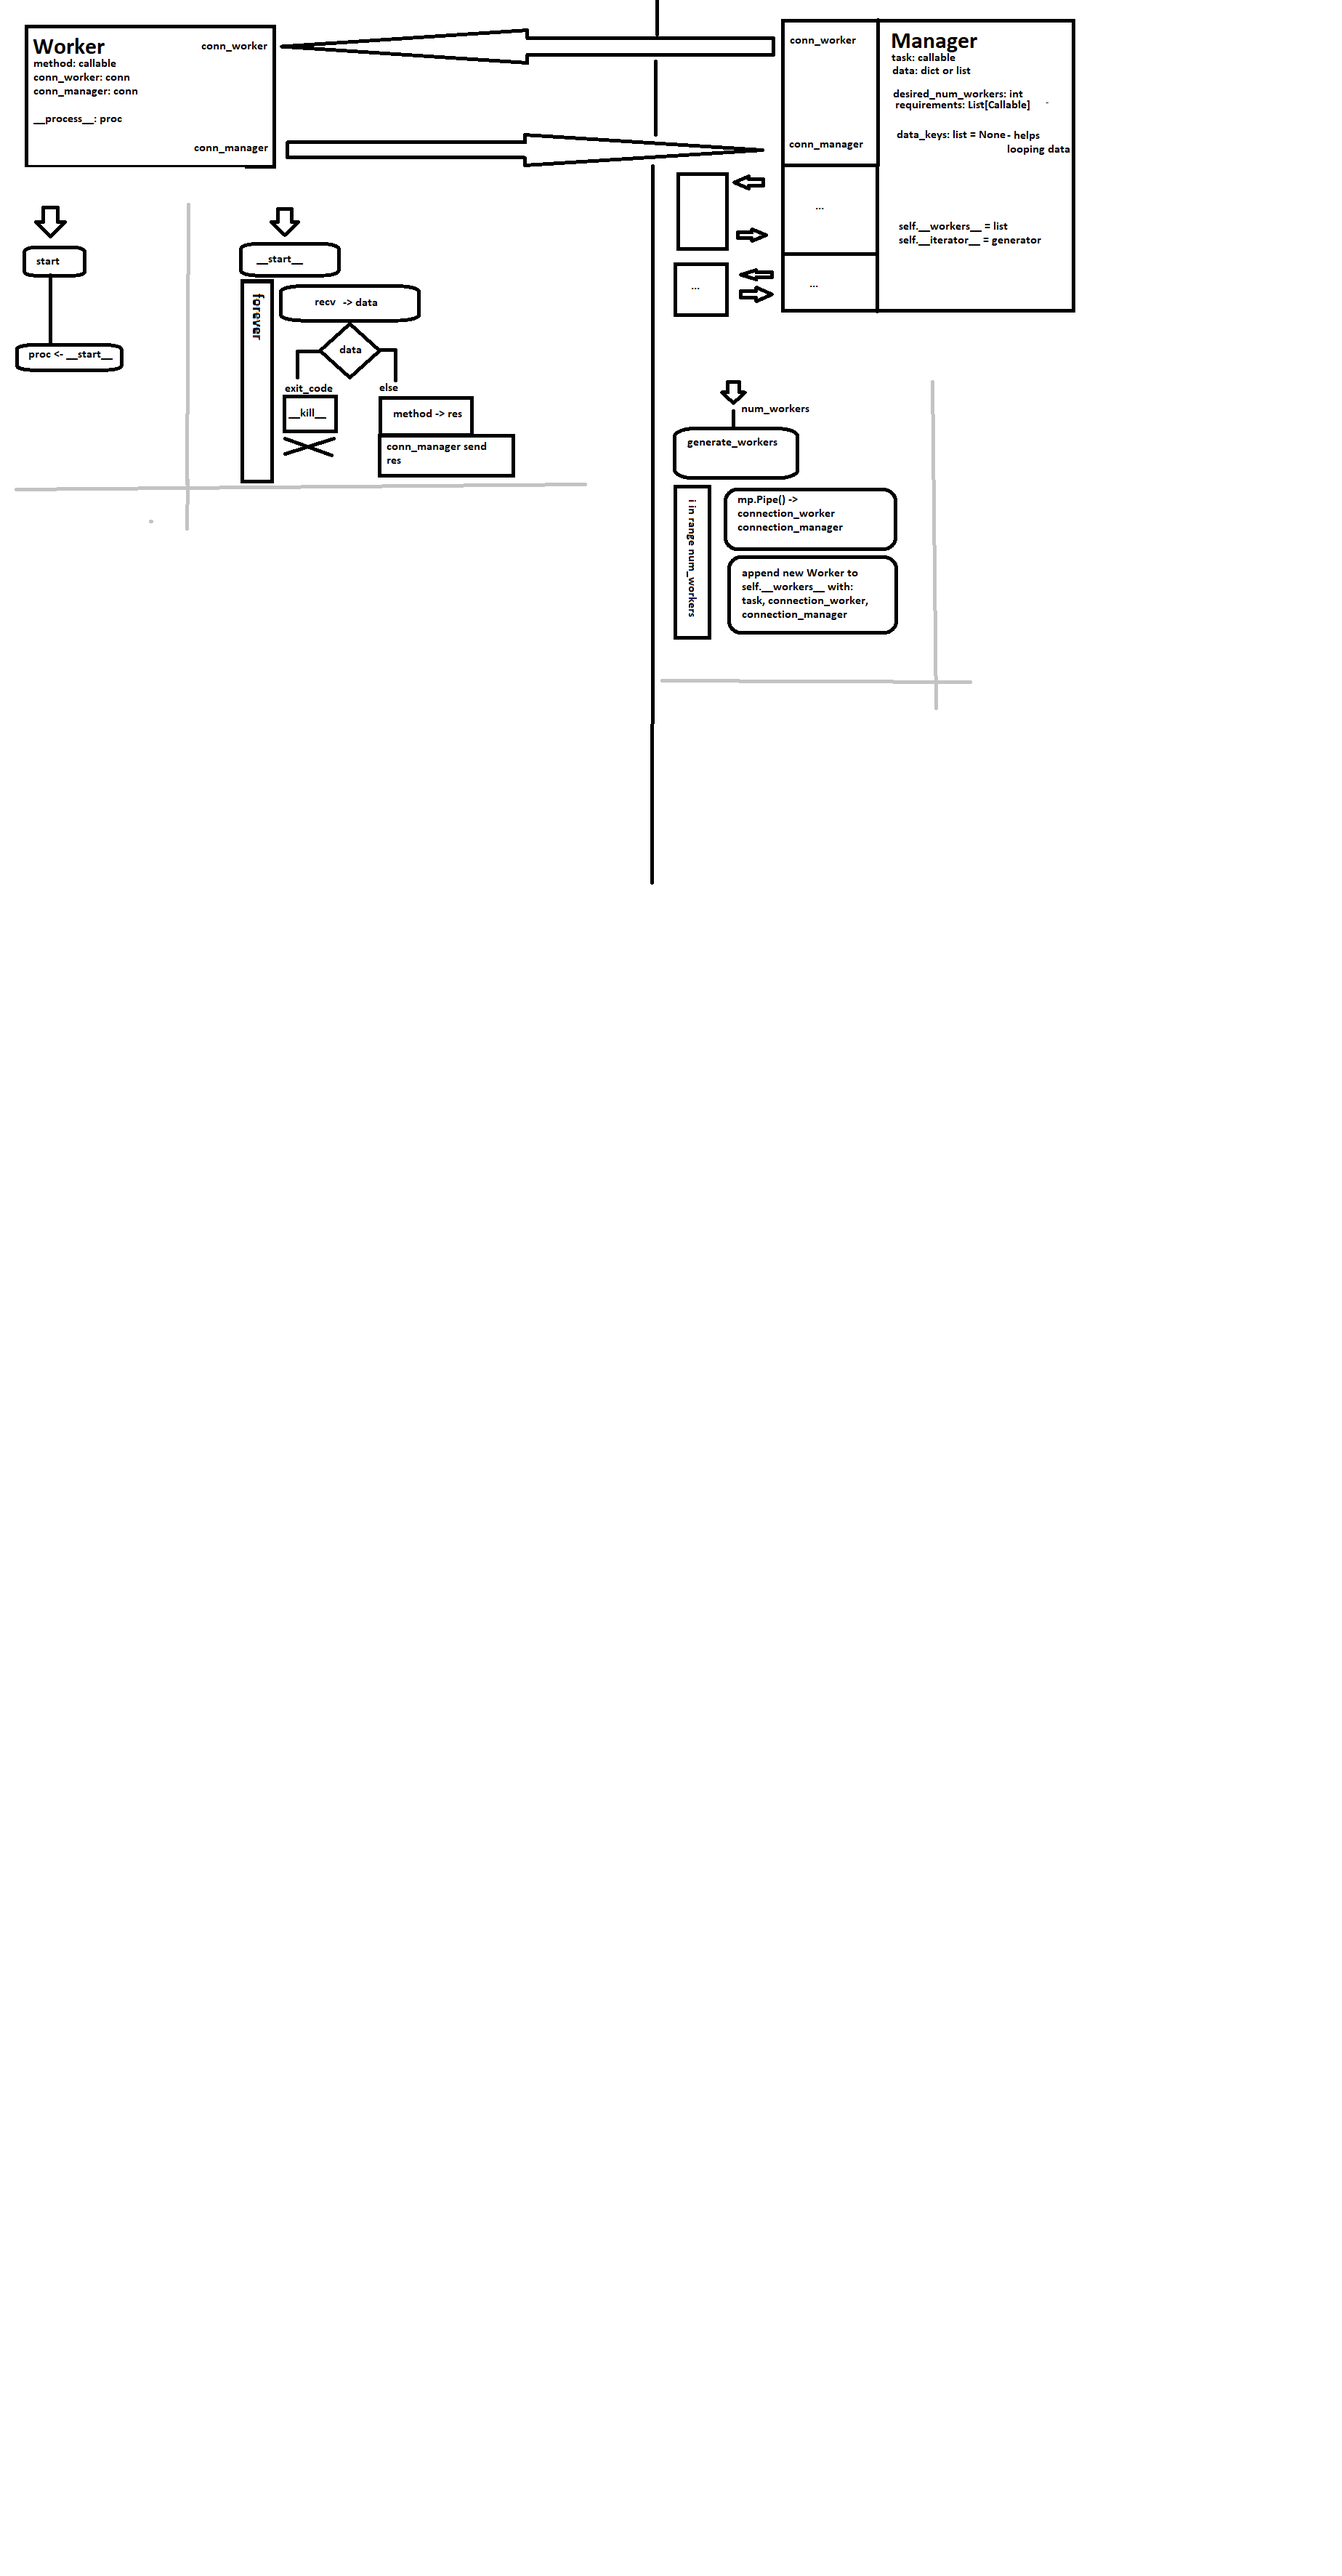
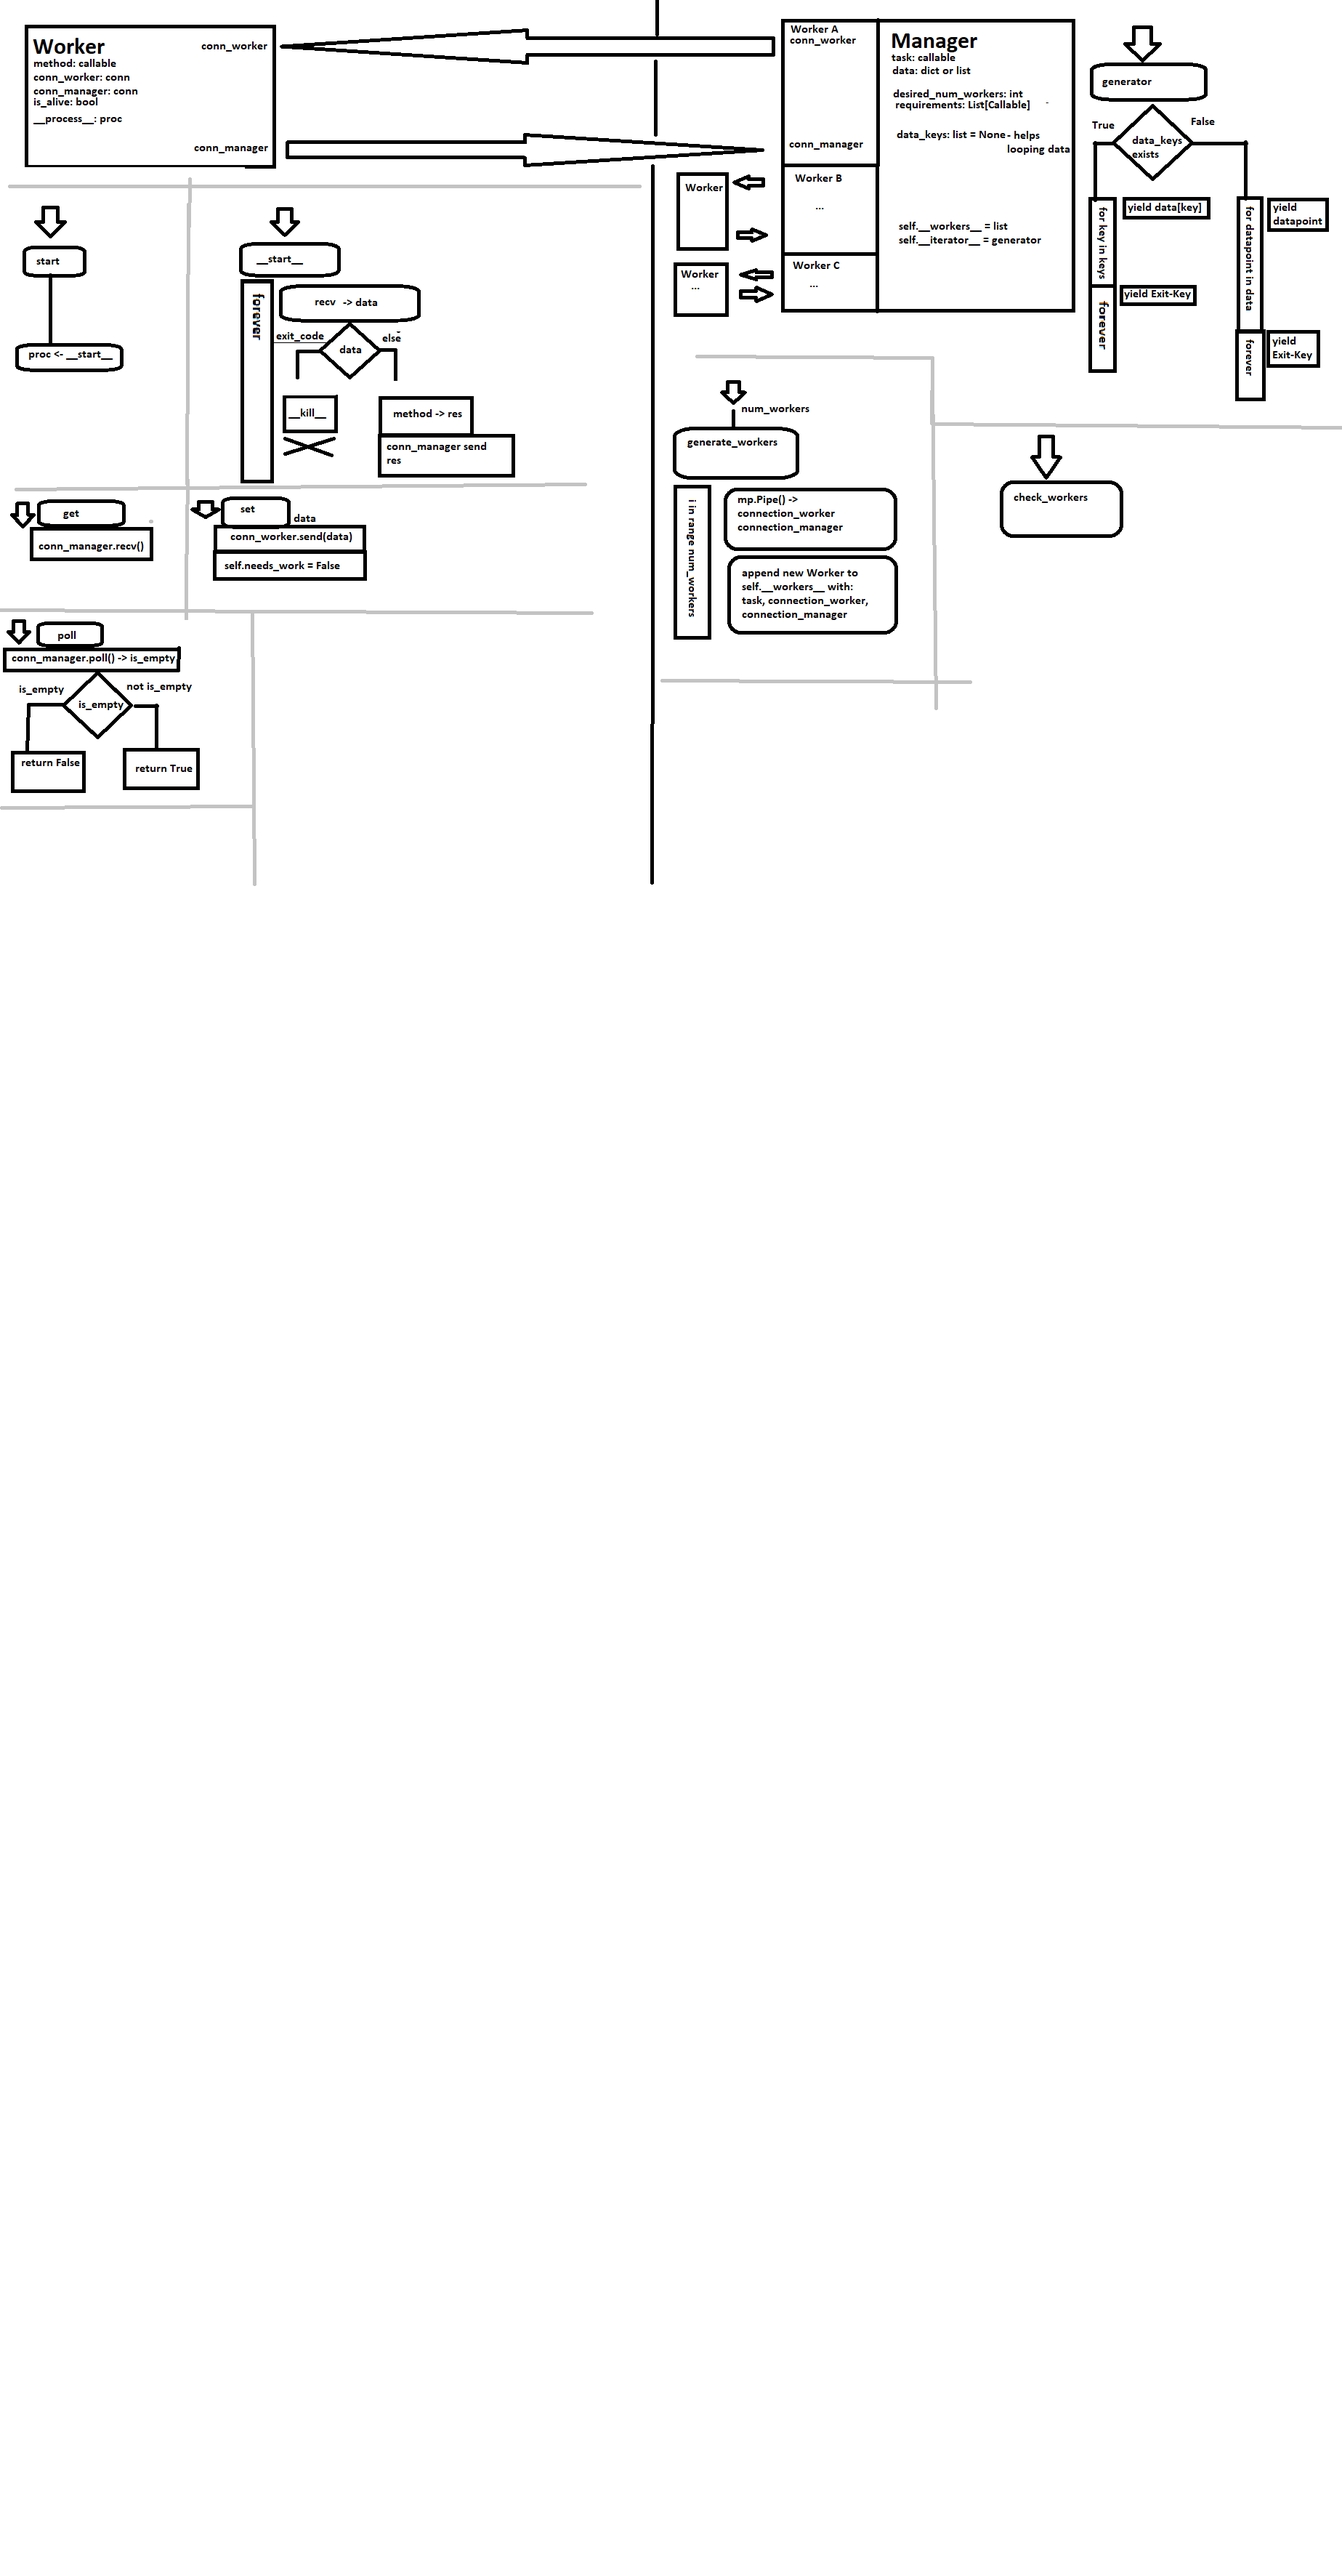
updates

diff --git a/src/Worker.py b/src/Worker.py
@@ -16,25 +16,26 @@ class WorkerInstance:
         self.method = method
         self.connection_worker = connection_worker
         self.connection_manager = connection_manager
-        self.id = worker_id
-
-        self.__process = mp.Process(target=self.worker_start, args=(self.method,
-                                                                    connection_worker))
         self.is_alive = False
         self.needs_work = True
+        self.id = worker_id
+
+        self.__process = mp.Process(target=self.__start__, args=(self.method,
+                                                                 connection_worker))
+
 
     @staticmethod
-    def worker_start(method, connection_worker) -> None:
+    def __start__(method: Callable, connection_worker: connection) -> None:
         while True:
             data = connection_worker.recv()
 
-            if data == Signals.__ExitSignal__:
+            if data == Signals.EXIT_SIGNAL:
                 connection_worker.close()
             result = method(data)
             connection_worker.send((data, result))
 
     def __kill(self) -> None:
-        self.connection_manager.send(Signals.__ExitSignal__)
+        self.connection_manager.send(Signals.EXIT_SIGNAL)
         self.__process.terminate()
 
     def start(self) -> None:
@@ -48,11 +49,11 @@ class WorkerInstance:
     def get(self) -> Tuple:
         return self.connection_manager.recv()
 
-    def set(self, data) -> None:
+    def set(self, data: object) -> None:
         self.connection_manager.send(data)
         self.needs_work = False
 
-    def poll(self, timeout) -> bool:
+    def poll(self, timeout: float) -> bool:
         if self.connection_manager.poll(timeout):
             self.needs_work = True
             return True

diff --git a/src/Manager.py b/src/Manager.py
@@ -28,21 +28,21 @@ class WorkerManager:
         self.results = {}
 
         self.__workers: List[WorkerInstance] = []  # typehint for IDE and reader
-        self.__iterator = self.data_iterator()
+        self.__iterator = self.generator()
         self.__poll_timeout = poll_timeout * (1 / 1000)
         self.__active_workers = 0
 
-    def data_iterator(self):
+    def generator(self):
         if self.data_keys:
             for key in self.data_keys:
                 yield self.data[key]
             while True:
-                yield Signals.__ExitSignal__
+                yield Signals.EXIT_SIGNAL
         else:
             for data_point in self.data:
                 yield data_point
             while True:
-                yield Signals.__ExitSignal__
+                yield Signals.EXIT_SIGNAL
 
     def generate_workers(self, num_processes: int) -> None:
         for worker in range(num_processes):
@@ -80,7 +80,7 @@ class WorkerManager:
             self.results[key] = result
             data = next(self.__iterator)
             worker.set(data)
-            if data == Signals.__ExitSignal__:
+            if data == Signals.EXIT_SIGNAL:
                 worker.kill()
 
         if worker.needs_work:

diff --git a/src/tools/Signals.py b/src/tools/Signals.py
@@ -1,5 +1,3 @@
-# yet another hashdict because of not being able to PRACTICALLY and SHORTLY disable random hashing
-
-__ExitSignal__ = hash("Exit")
-__HaltSignal__ = hash("Halt")
-__PrioritySignal__ = hash("Priority")
+EXIT_SIGNAL = hash("Exit")
+HALT_SIGNAL = hash("Halt")
+PRIORITY_SIGNAL = hash("Priority")
